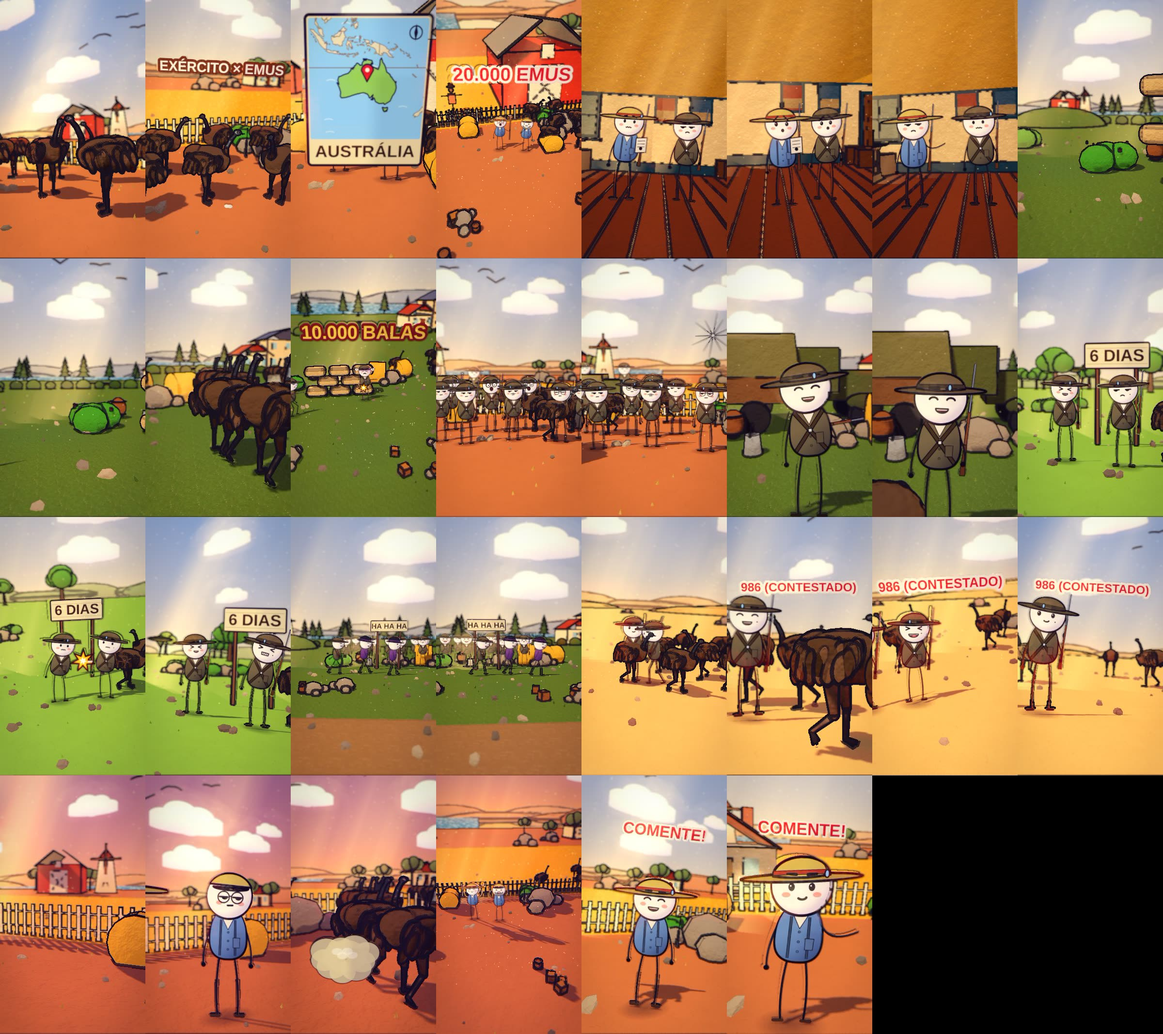
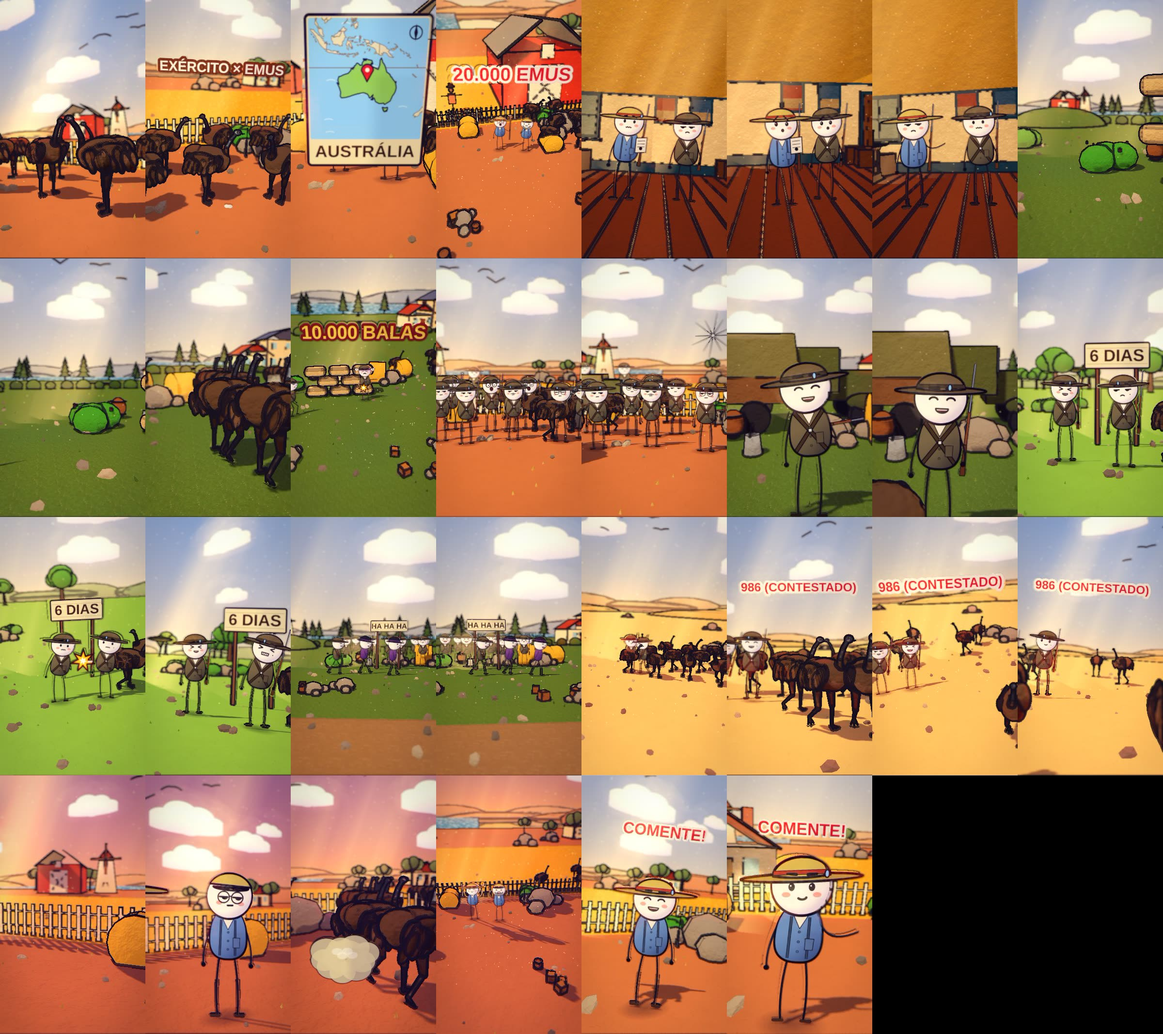
emus1932: storyboard aprovado; pendencias de ferramenta
Claude-Session: https://claude.ai/code/session_01HE8Dy2wiQov2uhW6ZYikBX

Changed region(s): [[0.5, 0.4953, 1.0, 0.743], [0.875, 0.743, 0.9062, 0.7739]]

diff --git a/ferramenta-shorts/web/story.js b/ferramenta-shorts/web/story.js
@@ -41,7 +41,7 @@ const SPEC = {
     { ...S('b5', A[5], A[6] - 1, X_countryside, "desert", { h: 2.4, d0: 10.5, d1: 10.0, el: 5, fov: 46, cx: 0.0, cz: -3.6, punches: [{ f: WS(71), amt: 0.16, dur: 20 }], hero: { hero: 'none', wide: true }, vary: false, nocut: true, trans: 'dissolve', shots: [WS(71), WS(71), WS(73) + 4], actors: [_MA(pp(X_countryside, "AUS", 2, 0.0, -0.4, "grin"), { gests: [[WS(73) - 8, WS(73) + 46, 'lift']] }), { bird: 'emu', at: [X_countryside + 7.4, 1.05], move: [[X_countryside + -14.6, 1.05], A[5], A[6] - 1, 'lin'], state: 'walk', spd: 0.09, s: 1.6, flip: true, seed: 2 }, { bird: 'emu', at: [X_countryside + 9.8, 1.65], move: [[X_countryside + -12.2, 1.65], A[5], A[6] - 1, 'lin'], state: 'walk', spd: 0.09, s: 1.6, flip: true, seed: 7 }, { bird: 'emu', at: [X_countryside + 12.2, 1.2], move: [[X_countryside + -9.8, 1.2], A[5], A[6] - 1, 'lin'], state: 'walk', spd: 0.09, s: 1.6, flip: true, seed: 12 }, { bird: 'emu', at: [X_countryside + 14.6, 1.8], move: [[X_countryside + -7.4, 1.8], A[5], A[6] - 1, 'lin'], state: 'walk', spd: 0.09, s: 1.6, flip: true, seed: 17 }, { bird: 'emu', at: [X_countryside + 8.5, -1.25], move: [[X_countryside + -13.5, -1.25], A[5], A[6] - 1, 'lin'], state: 'walk', spd: 0.09, s: 1.6, flip: true, seed: 22 }, { bird: 'emu', at: [X_countryside + 10.9, -0.65], move: [[X_countryside + -11.1, -0.65], A[5], A[6] - 1, 'lin'], state: 'walk', spd: 0.09, s: 1.6, flip: true, seed: 27 }], props: [{ asset: "vehicles/truck", at: [X_countryside + 0.0, -8.0], s: 1.52, bob: 0.06, ry: 1.5708, fixo: true }], fx: [{ k: 'birds', a: A[5], b: A[6] - 1, at: [X_countryside, DK + 7.5, -30], n: 6, dir: 1, off: 15 }, { k: 'flash', a: WS(71), b: WS(71) + 8, at: [X_countryside + 1.55, DK - 0.55, 1.7], s: 1.6 }, { k: 'puff', a: WS(71) + 3, b: WS(71) + 24, at: [X_countryside + 1.8, DK + 1.9, 1.7], s: 0.5 }, { k: 'flash', a: WS(71), b: WS(71) + 10, at: [X_countryside + 1.55, DK - 0.55, 1.7], s: 1.6 }] }), nocut: true },
     S('b6', A[6], A[7] - 1, X_loc_campo, "desert", { h: 2.5, d0: 11.4, d1: 10.2, az0: 16, az1: 30, punches: [{ f: WS(89), amt: 0.16, dur: 20 }], vary: false, hero: { hero: 'any', frame: 'medium', minH: 0.07, main: 2 }, trans: 'dissolve', shots: [WS(89), WS(89)], actors: [pp(X_loc_campo, "AUS", 0, -1.0, 1.3, "pained", { pose: 'talk', inter: { k: 'lean', a: Math.round(A[6] + (A[7] - 1 - (A[6])) * 0.12), b: Math.round(A[6] + (A[7] - 1 - (A[6])) * 0.82), dir: 1, n: 2, ph: 0 } }), pp(X_loc_campo, "AUS", 1, 1.0, 1.0, "pained", { pose: 'talk', inter: { k: 'recoil', a: Math.round(A[6] + (A[7] - 1 - (A[6])) * 0.2), b: Math.round(A[6] + (A[7] - 1 - (A[6])) * 0.9), dir: -1, n: 2, ph: 3.14 } }), { bird: 'emu', at: [X_loc_campo + 2.6, 0.05], state: "stand", s: 1.6, flip: true, seed: 2 }, { bird: 'emu', at: [X_loc_campo + 5.0, 0.65], state: "peck", s: 1.6, flip: false, seed: 7 }, { bird: 'emu', at: [X_loc_campo + 7.4, 0.2], state: "stand", s: 1.6, flip: true, seed: 12 }, { bird: 'emu', at: [X_loc_campo + 3.7, -1.8], state: "stand", s: 1.6, flip: false, seed: 17 }, { bird: 'emu', at: [X_loc_campo + 6.1, -2.25], state: "peck", s: 1.6, flip: true, seed: 22 }, { bird: 'emu', at: [X_loc_campo + 8.5, -1.65], state: "stand", s: 1.6, flip: false, seed: 27 }], fx: [{ k: 'birds', a: A[6], b: A[7] - 1, at: [X_loc_campo, DK + 4.5, -30], n: 4, dir: -1, off: 8 }, { k: 'text', a: A[6], b: A[7] - 1, at: [X_loc_campo + 0.0, DK, -1.3], text: "6 DIAS", s: 2.625, col: '#3a2416', size: 120, board: true }, { k: 'flash', a: WS(89), b: WS(89) + 8, at: [X_loc_campo + 0.55, DK - 0.55, 1.7], s: 1.6 }, { k: 'puff', a: WS(89) + 3, b: WS(89) + 24, at: [X_loc_campo + 0.8, DK + 1.9, 1.7], s: 0.5 }, { k: 'flash', a: WS(89), b: WS(89) + 10, at: [X_loc_campo + 0.55, DK - 0.55, 1.7], s: 1.6 }] }),
     { ...S('b7', A[7], A[8] - 1, X_countryside, "desert", { h: 2.2, d0: 8.0, d1: 8.0, el: 3, fov: 44, az0: -14, az1: 4, vary: false, hero: { hero: 'any', frame: 'medium', minH: 0.07, main: 3 }, trans: 'dissolve', actors: [_MA({ outfit: "AUS", v: 0, at: [X_countryside + -6.1, 1.3], move: [[X_countryside + 1.9, 1.3], A[7], A[8] - 1, 'lin'], pose: "march", expr: ((f) => f >= WS(104) - 4 ? "laugh" : "pained") }, { gests: [[WS(104) - 8, Math.max(WS(104) + 14, WS(108) - 5), 'up']] }), _MA({ outfit: "PRESS", v: 0, at: [X_countryside + -4.0, 1.0], move: [[X_countryside + 4.0, 1.0], A[7], A[8] - 1, 'lin'], pose: "stroll", expr: ((f) => f >= WS(104) - 4 ? "laugh" : "grin"), over: { hold: "paper" } }, { gests: [[WS(104) - 6, Math.max(WS(104) + 14, WS(108) - 5), 'up']] }), { outfit: "PRESS", v: 1, at: [X_countryside + -1.9, 1.6], move: [[X_countryside + 6.1, 1.6], A[7], A[8] - 1, 'lin'], pose: "stroll", expr: ((f) => f >= WS(104) - 4 ? "laugh" : "smile") }, pp(X_countryside, "AUS", 0, -3.85, -3.36, "neutral", { look: -0.25, seed: 0 }), pp(X_countryside, "AUS", 1, -1.79, -2.88, "neutral", { look: 0.25, seed: 1 }), pp(X_countryside, "AUS", 2, 0.27, -3.24, "neutral", { look: 0.0, seed: 2 }), pp(X_countryside, "AUS", 3, 1.34, -2.76, "neutral", { look: 0.15, seed: 3 }), pp(X_countryside, "AUS", 4, 3.4, -3.12, "neutral", { look: -0.25, seed: 0 }), pp(X_countryside, "AUS", 5, -2.14, -4.74, "neutral", { look: 0.25, seed: 1 }), pp(X_countryside, "AUS", 6, -1.07, -5.1, "neutral", { look: 0.0, seed: 2 }), pp(X_countryside, "AUS", 0, 0.99, -5.46, "neutral", { look: 0.15, seed: 3 }), pp(X_countryside, "AUS", 1, 3.05, -4.98, "neutral", { look: -0.25, seed: 0 }), pp(X_countryside, "AUS", 2, 4.12, -5.34, "neutral", { look: 0.25, seed: 1 }), pp(X_countryside, "AUS", 3, -3.22, -6.96, "neutral", { look: 0.0, seed: 2 }), pp(X_countryside, "AUS", 4, -2.15, -7.32, "neutral", { look: 0.15, seed: 3 })], fx: [{ k: 'text', a: A[7], b: A[8] - 1, at: [X_countryside + 0.0, DK, -1.3], text: "HA HA HA", s: 2.625, col: '#3a2416', size: 120, board: true }, { k: "stars", a: WS(104), b: WS(104) + 28, at: [X_countryside + 4.12, DK + 0.5, -4.34], s: 1.1 }, { k: "stars", a: WS(104) + 3, b: WS(104) + 30, at: [X_countryside + -2.1, DK + 2.6, 1.7], s: 0.6 }] }), cam: [{ f: A[7], at: [X_countryside + -4.0, DK + 2.2, 1.5], d: 8.0, az: 6, el: 3, fov: 44 }, { f: A[8] - 1, at: [X_countryside + 4.0, DK + 2.2, 1.5], d: 8.0, az: -8, el: 4, fov: 44, ease: 'lin' }], nocut: true },
-    S('b8', A[8], A[9] - 1, X_loc_deserto, "desert", { h: 1.8, d0: 9, d1: 8, az0: 24, az1: 10, cx: 2.0, cz: 0.5, vary: false, hero: { hero: 'any', frame: 'medium', minH: 0.07, main: 2 }, trans: 'dissolve', actors: [_MA(_MA(pp(X_loc_deserto, "AUS", 0, -1.0, 1.3, "stern", { pose: 'talk', inter: { k: 'lean', a: Math.round(A[8] + (A[9] - 1 - (A[8])) * 0.12), b: Math.round(A[8] + (A[9] - 1 - (A[8])) * 0.82), dir: 1, n: 2, ph: 0 } }), { gests: [[WS(113) - 8, WS(113) + 46, 'point']] }), { at: [X_loc_deserto + 5.0, 0.5], move: [[X_loc_deserto + -1.0, 1.3], Math.max(A[8], WS(113) - 30), WS(113) + 20, 'lin'], walk: 'stroll' }), pp(X_loc_deserto, "AUS", 1, 1.0, 1.0, "grin", { pose: 'talk', inter: { k: 'nod', a: Math.round(A[8] + (A[9] - 1 - (A[8])) * 0.2), b: Math.round(A[8] + (A[9] - 1 - (A[8])) * 0.9), dir: -1, n: 2, ph: 3.14 } }), { bird: 'emu', at: [X_loc_deserto + 0.9, 1.05], move: [[X_loc_deserto + 11.032, 3.387], A[8], A[9] - 1], state: 'walk', spd: 0.09, s: 1.6, flip: false, seed: 2 }, { bird: 'emu', at: [X_loc_deserto + 3.3, 1.65], move: [[X_loc_deserto + 9.932, 6.437], A[8], A[9] - 1], state: 'walk', spd: 0.09, s: 1.6, flip: false, seed: 7 }, { bird: 'emu', at: [X_loc_deserto + 5.7, 1.2], move: [[X_loc_deserto + 7.056, 7.154], A[8], A[9] - 1], state: 'walk', spd: 0.09, s: 1.6, flip: false, seed: 12 }, { bird: 'emu', at: [X_loc_deserto + 8.1, 1.8], move: [[X_loc_deserto + 3.816, 7.326], A[8], A[9] - 1], state: 'walk', spd: 0.09, s: 1.6, flip: true, seed: 17 }, { bird: 'emu', at: [X_loc_deserto + 2.0, -1.25], move: [[X_loc_deserto + -6.776, 2.368], A[8], A[9] - 1], state: 'walk', spd: 0.09, s: 1.6, flip: true, seed: 22 }, { bird: 'emu', at: [X_loc_deserto + 4.4, -0.65], move: [[X_loc_deserto + -6.516, 0.09], A[8], A[9] - 1], state: 'walk', spd: 0.09, s: 1.6, flip: true, seed: 27 }, { bird: 'emu', at: [X_loc_deserto + 6.8, -1.1], move: [[X_loc_deserto + -3.332, -3.437], A[8], A[9] - 1], state: 'walk', spd: 0.09, s: 1.6, flip: true, seed: 32 }, { bird: 'emu', at: [X_loc_deserto + 9.2, -1.55], move: [[X_loc_deserto + 2.568, -6.337], A[8], A[9] - 1], state: 'walk', spd: 0.09, s: 1.6, flip: true, seed: 37 }, { bird: 'emu', at: [X_loc_deserto + 0.9, -3.55], move: [[X_loc_deserto + -0.456, -9.504], A[8], A[9] - 1], state: 'walk', spd: 0.09, s: 1.6, flip: true, seed: 42 }, { bird: 'emu', at: [X_loc_deserto + 3.3, -4.0], move: [[X_loc_deserto + 7.584, -9.526], A[8], A[9] - 1], state: 'walk', spd: 0.09, s: 1.6, flip: false, seed: 47 }, { bird: 'emu', at: [X_loc_deserto + 5.7, -3.4], move: [[X_loc_deserto + 14.476, -7.018], A[8], A[9] - 1], state: 'walk', spd: 0.09, s: 1.6, flip: false, seed: 52 }, { bird: 'emu', at: [X_loc_deserto + 8.1, -3.85], move: [[X_loc_deserto + 19.016, -4.59], A[8], A[9] - 1], state: 'walk', spd: 0.09, s: 1.6, flip: false, seed: 57 }], fx: [{ k: 'birds', a: A[8], b: A[9] - 1, at: [X_loc_deserto, DK + 7.5, -30], n: 6, dir: 1, off: 8 }, txt(X_loc_deserto, WS(117, -2), A[9] - 1, "986 (CONTESTADO)", '#d8282f', '#fff6e0', 4.5, { s: 1.5, up: 0.46 }), { k: 'burst', a: A[8] + 40, at: [X_loc_deserto + -1.0, DK + 1.8, 3.2], s: 1.2 }, { k: 'burst', a: A[8] + 75, at: [X_loc_deserto + -1.0, DK + 1.8, 3.2], s: 1.2 }] }),
+    S('b8', A[8], A[9] - 1, X_loc_deserto, "desert", { h: 2.4, d0: 15, d1: 13, az0: 24, az1: 10, cx: 3.0, cz: 0.8, vary: false, hero: { hero: 'any', frame: 'medium', minH: 0.07, main: 2 }, trans: 'dissolve', actors: [_MA(_MA(pp(X_loc_deserto, "AUS", 0, -1.0, 1.3, "stern", { pose: 'talk', inter: { k: 'lean', a: Math.round(A[8] + (A[9] - 1 - (A[8])) * 0.12), b: Math.round(A[8] + (A[9] - 1 - (A[8])) * 0.82), dir: 1, n: 2, ph: 0 } }), { gests: [[WS(113) - 8, WS(113) + 46, 'point']] }), { at: [X_loc_deserto + 5.0, 0.5], move: [[X_loc_deserto + -1.0, 1.3], Math.max(A[8], WS(113) - 30), WS(113) + 20, 'lin'], walk: 'stroll' }), pp(X_loc_deserto, "AUS", 1, 1.0, 1.0, "grin", { pose: 'talk', inter: { k: 'nod', a: Math.round(A[8] + (A[9] - 1 - (A[8])) * 0.2), b: Math.round(A[8] + (A[9] - 1 - (A[8])) * 0.9), dir: -1, n: 2, ph: 3.14 } }), { bird: 'emu', at: [X_loc_deserto + 0.9, 1.05], move: [[X_loc_deserto + 11.032, 3.387], A[8], A[9] - 1], state: 'walk', spd: 0.09, s: 1.6, flip: false, seed: 2 }, { bird: 'emu', at: [X_loc_deserto + 3.3, 1.65], move: [[X_loc_deserto + 9.932, 6.437], A[8], A[9] - 1], state: 'walk', spd: 0.09, s: 1.6, flip: false, seed: 7 }, { bird: 'emu', at: [X_loc_deserto + 5.7, 1.2], move: [[X_loc_deserto + 7.056, 7.154], A[8], A[9] - 1], state: 'walk', spd: 0.09, s: 1.6, flip: false, seed: 12 }, { bird: 'emu', at: [X_loc_deserto + 8.1, 1.8], move: [[X_loc_deserto + 3.816, 7.326], A[8], A[9] - 1], state: 'walk', spd: 0.09, s: 1.6, flip: true, seed: 17 }, { bird: 'emu', at: [X_loc_deserto + 2.0, -1.25], move: [[X_loc_deserto + -6.776, 2.368], A[8], A[9] - 1], state: 'walk', spd: 0.09, s: 1.6, flip: true, seed: 22 }, { bird: 'emu', at: [X_loc_deserto + 4.4, -0.65], move: [[X_loc_deserto + -6.516, 0.09], A[8], A[9] - 1], state: 'walk', spd: 0.09, s: 1.6, flip: true, seed: 27 }, { bird: 'emu', at: [X_loc_deserto + 6.8, -1.1], move: [[X_loc_deserto + -3.332, -3.437], A[8], A[9] - 1], state: 'walk', spd: 0.09, s: 1.6, flip: true, seed: 32 }, { bird: 'emu', at: [X_loc_deserto + 9.2, -1.55], move: [[X_loc_deserto + 2.568, -6.337], A[8], A[9] - 1], state: 'walk', spd: 0.09, s: 1.6, flip: true, seed: 37 }, { bird: 'emu', at: [X_loc_deserto + 0.9, -3.55], move: [[X_loc_deserto + -0.456, -9.504], A[8], A[9] - 1], state: 'walk', spd: 0.09, s: 1.6, flip: true, seed: 42 }, { bird: 'emu', at: [X_loc_deserto + 3.3, -4.0], move: [[X_loc_deserto + 7.584, -9.526], A[8], A[9] - 1], state: 'walk', spd: 0.09, s: 1.6, flip: false, seed: 47 }, { bird: 'emu', at: [X_loc_deserto + 5.7, -3.4], move: [[X_loc_deserto + 14.476, -7.018], A[8], A[9] - 1], state: 'walk', spd: 0.09, s: 1.6, flip: false, seed: 52 }, { bird: 'emu', at: [X_loc_deserto + 8.1, -3.85], move: [[X_loc_deserto + 19.016, -4.59], A[8], A[9] - 1], state: 'walk', spd: 0.09, s: 1.6, flip: false, seed: 57 }], fx: [{ k: 'birds', a: A[8], b: A[9] - 1, at: [X_loc_deserto, DK + 7.5, -30], n: 6, dir: 1, off: 8 }, txt(X_loc_deserto, WS(117, -2), A[9] - 1, "986 (CONTESTADO)", '#d8282f', '#fff6e0', 4.5, { s: 1.5, up: 0.46 }), { k: 'burst', a: A[8] + 40, at: [X_loc_deserto + -1.0, DK + 1.8, 3.2], s: 1.2 }, { k: 'burst', a: A[8] + 75, at: [X_loc_deserto + -1.0, DK + 1.8, 3.2], s: 1.2 }] }),
     { ...{ ...S('b9', A[9], Math.round(A[9] + (A[10] - 1 + 1 - (A[9])) * 0.2) - 1, X, "golden", { h: 2.6, d0: 25.0, d1: 19.0, el: 11, cx: 0.0, cz: -1.5, hero: { hero: 'none', wide: true }, vary: false, nocut: true, trans: 'dissolve', actors: [_MA(pp(X, "FARM", 0, -1.0, -0.4, "smile", { over: { hold: "coin" } }), { gests: [[WS(138) - 8, WS(138) + 46, 'reach']] }), pp(X, "FARM", 1, 1.0, 0.2, "grin"), { bird: 'emu', at: [X + 1.5, -1.5], move: [[X + 6.5, -6.5], A[9], A[10] - 1], state: 'walk', spd: 0.09, s: 1.6, flip: false, seed: 2 }, { bird: 'emu', at: [X + 3.188, -0.75], move: [[X + 14.488, -7.812], A[9], A[10] - 1], state: 'walk', spd: 0.09, s: 1.6, flip: false, seed: 7 }, { bird: 'emu', at: [X + 4.875, 0.0], move: [[X + 12.575, -9.125], A[9], A[10] - 1], state: 'walk', spd: 0.09, s: 1.6, flip: false, seed: 12 }, { bird: 'emu', at: [X + 6.562, 0.75], move: [[X + 20.562, -10.438], A[9], A[10] - 1], state: 'walk', spd: 0.09, s: 1.6, flip: false, seed: 17 }, { bird: 'emu', at: [X + 8.25, 1.5], move: [[X + 18.65, -11.75], A[9], A[10] - 1], state: 'walk', spd: 0.09, s: 1.6, flip: false, seed: 22 }, { bird: 'emu', at: [X + 9.938, 2.25], move: [[X + 16.738, -13.062], A[9], A[10] - 1], state: 'walk', spd: 0.09, s: 1.6, flip: false, seed: 27 }, { bird: 'emu', at: [X + 2.062, 3.0], move: [[X + 15.162, -2.688], A[9], A[10] - 1], state: 'walk', spd: 0.09, s: 1.6, flip: false, seed: 32 }, { bird: 'emu', at: [X + 3.75, 3.75], move: [[X + 13.25, -4.0], A[9], A[10] - 1], state: 'walk', spd: 0.09, s: 1.6, flip: false, seed: 37 }, { bird: 'emu', at: [X + 5.438, 4.5], move: [[X + 11.338, -5.312], A[9], A[10] - 1], state: 'walk', spd: 0.09, s: 1.6, flip: false, seed: 42 }, { bird: 'emu', at: [X + 7.125, 5.25], move: [[X + 19.325, -6.625], A[9], A[10] - 1], state: 'walk', spd: 0.09, s: 1.6, flip: false, seed: 47 }, { bird: 'emu', at: [X + 8.812, 6.0], move: [[X + 17.413, -7.938], A[9], A[10] - 1], state: 'walk', spd: 0.09, s: 1.6, flip: false, seed: 52 }, { bird: 'emu', at: [X + 10.5, 6.75], move: [[X + 15.5, -9.25], A[9], A[10] - 1], state: 'walk', spd: 0.09, s: 1.6, flip: false, seed: 57 }, { bird: 'emu', at: [X + 2.625, 7.5], move: [[X + 13.925, 1.125], A[9], A[10] - 1], state: 'walk', spd: 0.09, s: 1.6, flip: false, seed: 62 }, { bird: 'emu', at: [X + 4.312, -1.5], move: [[X + 12.012, -9.938], A[9], A[10] - 1], state: 'walk', spd: 0.09, s: 1.6, flip: false, seed: 67 }, { bird: 'emu', at: [X + 6.0, -0.75], move: [[X + 20.0, -11.25], A[9], A[10] - 1], state: 'walk', spd: 0.09, s: 1.6, flip: false, seed: 72 }, { bird: 'emu', at: [X + 7.688, 0.0], move: [[X + 18.087, -12.562], A[9], A[10] - 1], state: 'walk', spd: 0.09, s: 1.6, flip: false, seed: 77 }, { bird: 'emu', at: [X + 9.375, 0.75], move: [[X + 16.175, -13.875], A[9], A[10] - 1], state: 'walk', spd: 0.09, s: 1.6, flip: false, seed: 82 }, { bird: 'emu', at: [X + 1.5, 1.5], move: [[X + 14.6, -3.5], A[9], A[10] - 1], state: 'walk', spd: 0.09, s: 1.6, flip: false, seed: 87 }, { bird: 'emu', at: [X + 3.188, 2.25], move: [[X + 12.688, -4.812], A[9], A[10] - 1], state: 'walk', spd: 0.09, s: 1.6, flip: false, seed: 92 }, { bird: 'emu', at: [X + 4.875, 3.0], move: [[X + 10.775, -6.125], A[9], A[10] - 1], state: 'walk', spd: 0.09, s: 1.6, flip: false, seed: 97 }, { bird: 'emu', at: [X + 6.562, 3.75], move: [[X + 18.762, -7.438], A[9], A[10] - 1], state: 'walk', spd: 0.09, s: 1.6, flip: false, seed: 102 }, { bird: 'emu', at: [X + 8.25, 4.5], move: [[X + 16.85, -8.75], A[9], A[10] - 1], state: 'walk', spd: 0.09, s: 1.6, flip: false, seed: 107 }, { bird: 'emu', at: [X + 9.938, 5.25], move: [[X + 14.938, -10.062], A[9], A[10] - 1], state: 'walk', spd: 0.09, s: 1.6, flip: false, seed: 112 }, { bird: 'emu', at: [X + 2.062, 6.0], move: [[X + 13.363, 0.312], A[9], A[10] - 1], state: 'walk', spd: 0.09, s: 1.6, flip: false, seed: 117 }, { bird: 'emu', at: [X + 3.75, 6.75], move: [[X + 11.45, -1.0], A[9], A[10] - 1], state: 'walk', spd: 0.09, s: 1.6, flip: false, seed: 122 }, { bird: 'emu', at: [X + 5.438, 7.5], move: [[X + 19.438, -2.312], A[9], A[10] - 1], state: 'walk', spd: 0.09, s: 1.6, flip: false, seed: 127 }, pp(X, "FARM", 0, -14.55, 0.84, "neutral", { look: -0.25, seed: 0 }), pp(X, "FARM", 1, -12.29, 1.32, "neutral", { look: 0.25, seed: 1 }), pp(X, "FARM", 2, -10.03, 0.96, "neutral", { look: 0.0, seed: 2 }), pp(X, "FARM", 3, -8.76, 1.44, "neutral", { look: 0.15, seed: 3 }), pp(X, "FARM", 4, -6.5, 1.08, "neutral", { look: -0.25, seed: 0 })], props: [{ asset: 'kit/coin', a: WS(138) - 2, b: WS(138) + 50, at: [X + 0.25, 1.9], y: (f) => DK + 1.5 + 0.25 * Math.sin(f * 0.2), spinY: 2, s: 0.35, drop: false }], fx: [{ k: 'dust', a: A[9] + 14, b: A[9] + 44, at: [X + 3.5, DK + 0.4, -3.5], s: 0.85 }, { k: 'dust', a: A[9] + 41, b: A[9] + 71, at: [X + 12.163, DK + 0.4, -3.725], s: 0.85 }, { k: 'dust', a: A[9] + 68, b: A[9] + 98, at: [X + 7.303, DK + 0.4, 0.725], s: 0.85 }, { k: 'dust', a: A[9] + 95, b: A[9] + 125, at: [X + 12.005, DK + 0.4, 0.5], s: 0.85 }, { k: 'dust', a: A[9] + 122, b: A[9] + 152, at: [X + 7.145, DK + 0.4, 4.95], s: 0.85 }, { k: 'dust', a: A[9] + 149, b: A[9] + 179, at: [X + 11.848, DK + 0.4, -5.025], s: 0.85 }, { k: 'dust', a: A[9] + 176, b: A[9] + 206, at: [X + 6.988, DK + 0.4, -0.575], s: 0.85 }, { k: 'dust', a: A[9] + 203, b: A[9] + 233, at: [X + 11.69, DK + 0.4, -0.8], s: 0.85 }, { k: 'dust', a: A[9] + 230, b: A[9] + 260, at: [X + 6.83, DK + 0.4, 3.65], s: 0.85 }, { k: 'birds', a: A[9], b: A[10] - 1, at: [X, DK + 4.5, -30], n: 4, dir: 1, off: 15 }, txt(X, WS(168, -2), A[10] - 1, "EXÉRCITO 0 - 1 EMUS", '#fff6e0', '#27408b', 4.8, { s: 1.5, up: 0.42 }), { k: "ring", a: A[9] + 12, b: A[9] + 38, at: [X, DK + 0.5, 1.2], s: 1.1 }, { k: "dust", a: A[9] + 40, b: A[9] + 66, at: [X + 0.9, DK + 0.12, 1.0], s: 0.75 }, { k: "stars", a: WS(138), b: WS(138) + 28, at: [X + -14.55, DK + 0.5, 1.84], s: 1.9 }] }), nocut: true }, cam: [{ f: A[9], at: [X + -5.0, DK + 1.9, -2.5], d: 11, az: 24, el: 5, fov: 44 }, { f: Math.round(A[9] + (A[10] - 1 + 1 - (A[9])) * 0.2) - 1, at: [X + -5.5, DK + 1.9, -2.5], d: 9.2, az: 16, el: 5, fov: 44 }], nocut: true, vary: false }, { ...{ ...S('b9_1', Math.round(A[9] + (A[10] - 1 + 1 - (A[9])) * 0.2), Math.round(A[9] + (A[10] - 1 + 1 - (A[9])) * 0.4) - 1, X, "golden", { h: 2.6, d0: 25.0, d1: 19.0, el: 11, cx: 0.0, cz: -1.5, hero: { hero: 'none', wide: true }, vary: false, nocut: true, trans: 'cut', actors: [_MA(pp(X, "FARM", 0, -1.0, -0.4, "smile", { over: { hold: "coin" } }), { gests: [[WS(138) - 8, WS(138) + 46, 'reach']] }), pp(X, "FARM", 1, 1.0, 0.2, "grin"), { bird: 'emu', at: [X + 1.5, -1.5], move: [[X + 6.5, -6.5], A[9], A[10] - 1], state: 'walk', spd: 0.09, s: 1.6, flip: false, seed: 2 }, { bird: 'emu', at: [X + 3.188, -0.75], move: [[X + 14.488, -7.812], A[9], A[10] - 1], state: 'walk', spd: 0.09, s: 1.6, flip: false, seed: 7 }, { bird: 'emu', at: [X + 4.875, 0.0], move: [[X + 12.575, -9.125], A[9], A[10] - 1], state: 'walk', spd: 0.09, s: 1.6, flip: false, seed: 12 }, { bird: 'emu', at: [X + 6.562, 0.75], move: [[X + 20.562, -10.438], A[9], A[10] - 1], state: 'walk', spd: 0.09, s: 1.6, flip: false, seed: 17 }, { bird: 'emu', at: [X + 8.25, 1.5], move: [[X + 18.65, -11.75], A[9], A[10] - 1], state: 'walk', spd: 0.09, s: 1.6, flip: false, seed: 22 }, { bird: 'emu', at: [X + 9.938, 2.25], move: [[X + 16.738, -13.062], A[9], A[10] - 1], state: 'walk', spd: 0.09, s: 1.6, flip: false, seed: 27 }, { bird: 'emu', at: [X + 2.062, 3.0], move: [[X + 15.162, -2.688], A[9], A[10] - 1], state: 'walk', spd: 0.09, s: 1.6, flip: false, seed: 32 }, { bird: 'emu', at: [X + 3.75, 3.75], move: [[X + 13.25, -4.0], A[9], A[10] - 1], state: 'walk', spd: 0.09, s: 1.6, flip: false, seed: 37 }, { bird: 'emu', at: [X + 5.438, 4.5], move: [[X + 11.338, -5.312], A[9], A[10] - 1], state: 'walk', spd: 0.09, s: 1.6, flip: false, seed: 42 }, { bird: 'emu', at: [X + 7.125, 5.25], move: [[X + 19.325, -6.625], A[9], A[10] - 1], state: 'walk', spd: 0.09, s: 1.6, flip: false, seed: 47 }, { bird: 'emu', at: [X + 8.812, 6.0], move: [[X + 17.413, -7.938], A[9], A[10] - 1], state: 'walk', spd: 0.09, s: 1.6, flip: false, seed: 52 }, { bird: 'emu', at: [X + 10.5, 6.75], move: [[X + 15.5, -9.25], A[9], A[10] - 1], state: 'walk', spd: 0.09, s: 1.6, flip: false, seed: 57 }, { bird: 'emu', at: [X + 2.625, 7.5], move: [[X + 13.925, 1.125], A[9], A[10] - 1], state: 'walk', spd: 0.09, s: 1.6, flip: false, seed: 62 }, { bird: 'emu', at: [X + 4.312, -1.5], move: [[X + 12.012, -9.938], A[9], A[10] - 1], state: 'walk', spd: 0.09, s: 1.6, flip: false, seed: 67 }, { bird: 'emu', at: [X + 6.0, -0.75], move: [[X + 20.0, -11.25], A[9], A[10] - 1], state: 'walk', spd: 0.09, s: 1.6, flip: false, seed: 72 }, { bird: 'emu', at: [X + 7.688, 0.0], move: [[X + 18.087, -12.562], A[9], A[10] - 1], state: 'walk', spd: 0.09, s: 1.6, flip: false, seed: 77 }, { bird: 'emu', at: [X + 9.375, 0.75], move: [[X + 16.175, -13.875], A[9], A[10] - 1], state: 'walk', spd: 0.09, s: 1.6, flip: false, seed: 82 }, { bird: 'emu', at: [X + 1.5, 1.5], move: [[X + 14.6, -3.5], A[9], A[10] - 1], state: 'walk', spd: 0.09, s: 1.6, flip: false, seed: 87 }, { bird: 'emu', at: [X + 3.188, 2.25], move: [[X + 12.688, -4.812], A[9], A[10] - 1], state: 'walk', spd: 0.09, s: 1.6, flip: false, seed: 92 }, { bird: 'emu', at: [X + 4.875, 3.0], move: [[X + 10.775, -6.125], A[9], A[10] - 1], state: 'walk', spd: 0.09, s: 1.6, flip: false, seed: 97 }, { bird: 'emu', at: [X + 6.562, 3.75], move: [[X + 18.762, -7.438], A[9], A[10] - 1], state: 'walk', spd: 0.09, s: 1.6, flip: false, seed: 102 }, { bird: 'emu', at: [X + 8.25, 4.5], move: [[X + 16.85, -8.75], A[9], A[10] - 1], state: 'walk', spd: 0.09, s: 1.6, flip: false, seed: 107 }, { bird: 'emu', at: [X + 9.938, 5.25], move: [[X + 14.938, -10.062], A[9], A[10] - 1], state: 'walk', spd: 0.09, s: 1.6, flip: false, seed: 112 }, { bird: 'emu', at: [X + 2.062, 6.0], move: [[X + 13.363, 0.312], A[9], A[10] - 1], state: 'walk', spd: 0.09, s: 1.6, flip: false, seed: 117 }, { bird: 'emu', at: [X + 3.75, 6.75], move: [[X + 11.45, -1.0], A[9], A[10] - 1], state: 'walk', spd: 0.09, s: 1.6, flip: false, seed: 122 }, { bird: 'emu', at: [X + 5.438, 7.5], move: [[X + 19.438, -2.312], A[9], A[10] - 1], state: 'walk', spd: 0.09, s: 1.6, flip: false, seed: 127 }, pp(X, "FARM", 0, -14.55, 0.84, "neutral", { look: -0.25, seed: 0 }), pp(X, "FARM", 1, -12.29, 1.32, "neutral", { look: 0.25, seed: 1 }), pp(X, "FARM", 2, -10.03, 0.96, "neutral", { look: 0.0, seed: 2 }), pp(X, "FARM", 3, -8.76, 1.44, "neutral", { look: 0.15, seed: 3 }), pp(X, "FARM", 4, -6.5, 1.08, "neutral", { look: -0.25, seed: 0 })], props: [{ asset: 'kit/coin', a: WS(138) - 2, b: WS(138) + 50, at: [X + 0.25, 1.9], y: (f) => DK + 1.5 + 0.25 * Math.sin(f * 0.2), spinY: 2, s: 0.35, drop: false }], fx: [{ k: 'dust', a: A[9] + 14, b: A[9] + 44, at: [X + 3.5, DK + 0.4, -3.5], s: 0.85 }, { k: 'dust', a: A[9] + 41, b: A[9] + 71, at: [X + 12.163, DK + 0.4, -3.725], s: 0.85 }, { k: 'dust', a: A[9] + 68, b: A[9] + 98, at: [X + 7.303, DK + 0.4, 0.725], s: 0.85 }, { k: 'dust', a: A[9] + 95, b: A[9] + 125, at: [X + 12.005, DK + 0.4, 0.5], s: 0.85 }, { k: 'dust', a: A[9] + 122, b: A[9] + 152, at: [X + 7.145, DK + 0.4, 4.95], s: 0.85 }, { k: 'dust', a: A[9] + 149, b: A[9] + 179, at: [X + 11.848, DK + 0.4, -5.025], s: 0.85 }, { k: 'dust', a: A[9] + 176, b: A[9] + 206, at: [X + 6.988, DK + 0.4, -0.575], s: 0.85 }, { k: 'dust', a: A[9] + 203, b: A[9] + 233, at: [X + 11.69, DK + 0.4, -0.8], s: 0.85 }, { k: 'dust', a: A[9] + 230, b: A[9] + 260, at: [X + 6.83, DK + 0.4, 3.65], s: 0.85 }, { k: 'birds', a: A[9], b: A[10] - 1, at: [X, DK + 4.5, -30], n: 4, dir: 1, off: 15 }, txt(X, WS(168, -2), A[10] - 1, "EXÉRCITO 0 - 1 EMUS", '#fff6e0', '#27408b', 4.8, { s: 1.5, up: 0.42 }), { k: "ring", a: A[9] + 12, b: A[9] + 38, at: [X, DK + 0.5, 1.2], s: 1.1 }, { k: "dust", a: A[9] + 40, b: A[9] + 66, at: [X + 0.9, DK + 0.12, 1.0], s: 0.75 }, { k: "stars", a: WS(138), b: WS(138) + 28, at: [X + -14.55, DK + 0.5, 1.84], s: 1.9 }] }), nocut: true }, cam: [{ f: Math.round(A[9] + (A[10] - 1 + 1 - (A[9])) * 0.2), at: [X + -7.0, DK + 2.3, 0.8], d: 7.2, az: -30, el: 1, fov: 44 }, { f: Math.round(A[9] + (A[10] - 1 + 1 - (A[9])) * 0.4) - 1, at: [X + -6.0, DK + 2.3, 0.8], d: 6.4, az: -20, el: 2, fov: 44 }], nocut: true, vary: false, glide: true }, { ...{ ...S('b9_2', Math.round(A[9] + (A[10] - 1 + 1 - (A[9])) * 0.4), Math.round(A[9] + (A[10] - 1 + 1 - (A[9])) * 0.66) - 1, X, "golden", { h: 2.6, d0: 25.0, d1: 19.0, el: 11, cx: 0.0, cz: -1.5, hero: { hero: 'none', wide: true }, vary: false, nocut: true, trans: 'cut', actors: [_MA(pp(X, "FARM", 0, -1.0, -0.4, "smile", { over: { hold: "coin" } }), { gests: [[WS(138) - 8, WS(138) + 46, 'reach']] }), pp(X, "FARM", 1, 1.0, 0.2, "grin"), { bird: 'emu', at: [X + 1.5, -1.5], move: [[X + 6.5, -6.5], A[9], A[10] - 1], state: 'walk', spd: 0.09, s: 1.6, flip: false, seed: 2 }, { bird: 'emu', at: [X + 3.188, -0.75], move: [[X + 14.488, -7.812], A[9], A[10] - 1], state: 'walk', spd: 0.09, s: 1.6, flip: false, seed: 7 }, { bird: 'emu', at: [X + 4.875, 0.0], move: [[X + 12.575, -9.125], A[9], A[10] - 1], state: 'walk', spd: 0.09, s: 1.6, flip: false, seed: 12 }, { bird: 'emu', at: [X + 6.562, 0.75], move: [[X + 20.562, -10.438], A[9], A[10] - 1], state: 'walk', spd: 0.09, s: 1.6, flip: false, seed: 17 }, { bird: 'emu', at: [X + 8.25, 1.5], move: [[X + 18.65, -11.75], A[9], A[10] - 1], state: 'walk', spd: 0.09, s: 1.6, flip: false, seed: 22 }, { bird: 'emu', at: [X + 9.938, 2.25], move: [[X + 16.738, -13.062], A[9], A[10] - 1], state: 'walk', spd: 0.09, s: 1.6, flip: false, seed: 27 }, { bird: 'emu', at: [X + 2.062, 3.0], move: [[X + 15.162, -2.688], A[9], A[10] - 1], state: 'walk', spd: 0.09, s: 1.6, flip: false, seed: 32 }, { bird: 'emu', at: [X + 3.75, 3.75], move: [[X + 13.25, -4.0], A[9], A[10] - 1], state: 'walk', spd: 0.09, s: 1.6, flip: false, seed: 37 }, { bird: 'emu', at: [X + 5.438, 4.5], move: [[X + 11.338, -5.312], A[9], A[10] - 1], state: 'walk', spd: 0.09, s: 1.6, flip: false, seed: 42 }, { bird: 'emu', at: [X + 7.125, 5.25], move: [[X + 19.325, -6.625], A[9], A[10] - 1], state: 'walk', spd: 0.09, s: 1.6, flip: false, seed: 47 }, { bird: 'emu', at: [X + 8.812, 6.0], move: [[X + 17.413, -7.938], A[9], A[10] - 1], state: 'walk', spd: 0.09, s: 1.6, flip: false, seed: 52 }, { bird: 'emu', at: [X + 10.5, 6.75], move: [[X + 15.5, -9.25], A[9], A[10] - 1], state: 'walk', spd: 0.09, s: 1.6, flip: false, seed: 57 }, { bird: 'emu', at: [X + 2.625, 7.5], move: [[X + 13.925, 1.125], A[9], A[10] - 1], state: 'walk', spd: 0.09, s: 1.6, flip: false, seed: 62 }, { bird: 'emu', at: [X + 4.312, -1.5], move: [[X + 12.012, -9.938], A[9], A[10] - 1], state: 'walk', spd: 0.09, s: 1.6, flip: false, seed: 67 }, { bird: 'emu', at: [X + 6.0, -0.75], move: [[X + 20.0, -11.25], A[9], A[10] - 1], state: 'walk', spd: 0.09, s: 1.6, flip: false, seed: 72 }, { bird: 'emu', at: [X + 7.688, 0.0], move: [[X + 18.087, -12.562], A[9], A[10] - 1], state: 'walk', spd: 0.09, s: 1.6, flip: false, seed: 77 }, { bird: 'emu', at: [X + 9.375, 0.75], move: [[X + 16.175, -13.875], A[9], A[10] - 1], state: 'walk', spd: 0.09, s: 1.6, flip: false, seed: 82 }, { bird: 'emu', at: [X + 1.5, 1.5], move: [[X + 14.6, -3.5], A[9], A[10] - 1], state: 'walk', spd: 0.09, s: 1.6, flip: false, seed: 87 }, { bird: 'emu', at: [X + 3.188, 2.25], move: [[X + 12.688, -4.812], A[9], A[10] - 1], state: 'walk', spd: 0.09, s: 1.6, flip: false, seed: 92 }, { bird: 'emu', at: [X + 4.875, 3.0], move: [[X + 10.775, -6.125], A[9], A[10] - 1], state: 'walk', spd: 0.09, s: 1.6, flip: false, seed: 97 }, { bird: 'emu', at: [X + 6.562, 3.75], move: [[X + 18.762, -7.438], A[9], A[10] - 1], state: 'walk', spd: 0.09, s: 1.6, flip: false, seed: 102 }, { bird: 'emu', at: [X + 8.25, 4.5], move: [[X + 16.85, -8.75], A[9], A[10] - 1], state: 'walk', spd: 0.09, s: 1.6, flip: false, seed: 107 }, { bird: 'emu', at: [X + 9.938, 5.25], move: [[X + 14.938, -10.062], A[9], A[10] - 1], state: 'walk', spd: 0.09, s: 1.6, flip: false, seed: 112 }, { bird: 'emu', at: [X + 2.062, 6.0], move: [[X + 13.363, 0.312], A[9], A[10] - 1], state: 'walk', spd: 0.09, s: 1.6, flip: false, seed: 117 }, { bird: 'emu', at: [X + 3.75, 6.75], move: [[X + 11.45, -1.0], A[9], A[10] - 1], state: 'walk', spd: 0.09, s: 1.6, flip: false, seed: 122 }, { bird: 'emu', at: [X + 5.438, 7.5], move: [[X + 19.438, -2.312], A[9], A[10] - 1], state: 'walk', spd: 0.09, s: 1.6, flip: false, seed: 127 }, pp(X, "FARM", 0, -14.55, 0.84, "neutral", { look: -0.25, seed: 0 }), pp(X, "FARM", 1, -12.29, 1.32, "neutral", { look: 0.25, seed: 1 }), pp(X, "FARM", 2, -10.03, 0.96, "neutral", { look: 0.0, seed: 2 }), pp(X, "FARM", 3, -8.76, 1.44, "neutral", { look: 0.15, seed: 3 }), pp(X, "FARM", 4, -6.5, 1.08, "neutral", { look: -0.25, seed: 0 })], props: [{ asset: 'kit/coin', a: WS(138) - 2, b: WS(138) + 50, at: [X + 0.25, 1.9], y: (f) => DK + 1.5 + 0.25 * Math.sin(f * 0.2), spinY: 2, s: 0.35, drop: false }], fx: [{ k: 'dust', a: A[9] + 14, b: A[9] + 44, at: [X + 3.5, DK + 0.4, -3.5], s: 0.85 }, { k: 'dust', a: A[9] + 41, b: A[9] + 71, at: [X + 12.163, DK + 0.4, -3.725], s: 0.85 }, { k: 'dust', a: A[9] + 68, b: A[9] + 98, at: [X + 7.303, DK + 0.4, 0.725], s: 0.85 }, { k: 'dust', a: A[9] + 95, b: A[9] + 125, at: [X + 12.005, DK + 0.4, 0.5], s: 0.85 }, { k: 'dust', a: A[9] + 122, b: A[9] + 152, at: [X + 7.145, DK + 0.4, 4.95], s: 0.85 }, { k: 'dust', a: A[9] + 149, b: A[9] + 179, at: [X + 11.848, DK + 0.4, -5.025], s: 0.85 }, { k: 'dust', a: A[9] + 176, b: A[9] + 206, at: [X + 6.988, DK + 0.4, -0.575], s: 0.85 }, { k: 'dust', a: A[9] + 203, b: A[9] + 233, at: [X + 11.69, DK + 0.4, -0.8], s: 0.85 }, { k: 'dust', a: A[9] + 230, b: A[9] + 260, at: [X + 6.83, DK + 0.4, 3.65], s: 0.85 }, { k: 'birds', a: A[9], b: A[10] - 1, at: [X, DK + 4.5, -30], n: 4, dir: 1, off: 15 }, txt(X, WS(168, -2), A[10] - 1, "EXÉRCITO 0 - 1 EMUS", '#fff6e0', '#27408b', 4.8, { s: 1.5, up: 0.42 }), { k: "ring", a: A[9] + 12, b: A[9] + 38, at: [X, DK + 0.5, 1.2], s: 1.1 }, { k: "dust", a: A[9] + 40, b: A[9] + 66, at: [X + 0.9, DK + 0.12, 1.0], s: 0.75 }, { k: "stars", a: WS(138), b: WS(138) + 28, at: [X + -14.55, DK + 0.5, 1.84], s: 1.9 }] }), nocut: true }, cam: [{ f: Math.round(A[9] + (A[10] - 1 + 1 - (A[9])) * 0.4), at: [X + 5.0, DK + 1.5, 2.5], d: 12, az: 4, el: 6, fov: 46 }, { f: Math.round(A[9] + (A[10] - 1 + 1 - (A[9])) * 0.66) - 1, at: [X + 12.0, DK + 1.5, -3.5], d: 13, az: -22, el: 8, fov: 46, ease: "lin" }], nocut: true, vary: false }, { ...{ ...S('b9_3', Math.round(A[9] + (A[10] - 1 + 1 - (A[9])) * 0.66), A[10] - 1, X, "golden", { h: 2.6, d0: 25.0, d1: 19.0, el: 11, cx: 0.0, cz: -1.5, hero: { hero: 'none', wide: true }, vary: false, nocut: true, trans: 'cut', actors: [_MA(pp(X, "FARM", 0, -1.0, -0.4, "smile", { over: { hold: "coin" } }), { gests: [[WS(138) - 8, WS(138) + 46, 'reach']] }), pp(X, "FARM", 1, 1.0, 0.2, "grin"), { bird: 'emu', at: [X + 1.5, -1.5], move: [[X + 6.5, -6.5], A[9], A[10] - 1], state: 'walk', spd: 0.09, s: 1.6, flip: false, seed: 2 }, { bird: 'emu', at: [X + 3.188, -0.75], move: [[X + 14.488, -7.812], A[9], A[10] - 1], state: 'walk', spd: 0.09, s: 1.6, flip: false, seed: 7 }, { bird: 'emu', at: [X + 4.875, 0.0], move: [[X + 12.575, -9.125], A[9], A[10] - 1], state: 'walk', spd: 0.09, s: 1.6, flip: false, seed: 12 }, { bird: 'emu', at: [X + 6.562, 0.75], move: [[X + 20.562, -10.438], A[9], A[10] - 1], state: 'walk', spd: 0.09, s: 1.6, flip: false, seed: 17 }, { bird: 'emu', at: [X + 8.25, 1.5], move: [[X + 18.65, -11.75], A[9], A[10] - 1], state: 'walk', spd: 0.09, s: 1.6, flip: false, seed: 22 }, { bird: 'emu', at: [X + 9.938, 2.25], move: [[X + 16.738, -13.062], A[9], A[10] - 1], state: 'walk', spd: 0.09, s: 1.6, flip: false, seed: 27 }, { bird: 'emu', at: [X + 2.062, 3.0], move: [[X + 15.162, -2.688], A[9], A[10] - 1], state: 'walk', spd: 0.09, s: 1.6, flip: false, seed: 32 }, { bird: 'emu', at: [X + 3.75, 3.75], move: [[X + 13.25, -4.0], A[9], A[10] - 1], state: 'walk', spd: 0.09, s: 1.6, flip: false, seed: 37 }, { bird: 'emu', at: [X + 5.438, 4.5], move: [[X + 11.338, -5.312], A[9], A[10] - 1], state: 'walk', spd: 0.09, s: 1.6, flip: false, seed: 42 }, { bird: 'emu', at: [X + 7.125, 5.25], move: [[X + 19.325, -6.625], A[9], A[10] - 1], state: 'walk', spd: 0.09, s: 1.6, flip: false, seed: 47 }, { bird: 'emu', at: [X + 8.812, 6.0], move: [[X + 17.413, -7.938], A[9], A[10] - 1], state: 'walk', spd: 0.09, s: 1.6, flip: false, seed: 52 }, { bird: 'emu', at: [X + 10.5, 6.75], move: [[X + 15.5, -9.25], A[9], A[10] - 1], state: 'walk', spd: 0.09, s: 1.6, flip: false, seed: 57 }, { bird: 'emu', at: [X + 2.625, 7.5], move: [[X + 13.925, 1.125], A[9], A[10] - 1], state: 'walk', spd: 0.09, s: 1.6, flip: false, seed: 62 }, { bird: 'emu', at: [X + 4.312, -1.5], move: [[X + 12.012, -9.938], A[9], A[10] - 1], state: 'walk', spd: 0.09, s: 1.6, flip: false, seed: 67 }, { bird: 'emu', at: [X + 6.0, -0.75], move: [[X + 20.0, -11.25], A[9], A[10] - 1], state: 'walk', spd: 0.09, s: 1.6, flip: false, seed: 72 }, { bird: 'emu', at: [X + 7.688, 0.0], move: [[X + 18.087, -12.562], A[9], A[10] - 1], state: 'walk', spd: 0.09, s: 1.6, flip: false, seed: 77 }, { bird: 'emu', at: [X + 9.375, 0.75], move: [[X + 16.175, -13.875], A[9], A[10] - 1], state: 'walk', spd: 0.09, s: 1.6, flip: false, seed: 82 }, { bird: 'emu', at: [X + 1.5, 1.5], move: [[X + 14.6, -3.5], A[9], A[10] - 1], state: 'walk', spd: 0.09, s: 1.6, flip: false, seed: 87 }, { bird: 'emu', at: [X + 3.188, 2.25], move: [[X + 12.688, -4.812], A[9], A[10] - 1], state: 'walk', spd: 0.09, s: 1.6, flip: false, seed: 92 }, { bird: 'emu', at: [X + 4.875, 3.0], move: [[X + 10.775, -6.125], A[9], A[10] - 1], state: 'walk', spd: 0.09, s: 1.6, flip: false, seed: 97 }, { bird: 'emu', at: [X + 6.562, 3.75], move: [[X + 18.762, -7.438], A[9], A[10] - 1], state: 'walk', spd: 0.09, s: 1.6, flip: false, seed: 102 }, { bird: 'emu', at: [X + 8.25, 4.5], move: [[X + 16.85, -8.75], A[9], A[10] - 1], state: 'walk', spd: 0.09, s: 1.6, flip: false, seed: 107 }, { bird: 'emu', at: [X + 9.938, 5.25], move: [[X + 14.938, -10.062], A[9], A[10] - 1], state: 'walk', spd: 0.09, s: 1.6, flip: false, seed: 112 }, { bird: 'emu', at: [X + 2.062, 6.0], move: [[X + 13.363, 0.312], A[9], A[10] - 1], state: 'walk', spd: 0.09, s: 1.6, flip: false, seed: 117 }, { bird: 'emu', at: [X + 3.75, 6.75], move: [[X + 11.45, -1.0], A[9], A[10] - 1], state: 'walk', spd: 0.09, s: 1.6, flip: false, seed: 122 }, { bird: 'emu', at: [X + 5.438, 7.5], move: [[X + 19.438, -2.312], A[9], A[10] - 1], state: 'walk', spd: 0.09, s: 1.6, flip: false, seed: 127 }, pp(X, "FARM", 0, -14.55, 0.84, "neutral", { look: -0.25, seed: 0 }), pp(X, "FARM", 1, -12.29, 1.32, "neutral", { look: 0.25, seed: 1 }), pp(X, "FARM", 2, -10.03, 0.96, "neutral", { look: 0.0, seed: 2 }), pp(X, "FARM", 3, -8.76, 1.44, "neutral", { look: 0.15, seed: 3 }), pp(X, "FARM", 4, -6.5, 1.08, "neutral", { look: -0.25, seed: 0 })], props: [{ asset: 'kit/coin', a: WS(138) - 2, b: WS(138) + 50, at: [X + 0.25, 1.9], y: (f) => DK + 1.5 + 0.25 * Math.sin(f * 0.2), spinY: 2, s: 0.35, drop: false }], fx: [{ k: 'dust', a: A[9] + 14, b: A[9] + 44, at: [X + 3.5, DK + 0.4, -3.5], s: 0.85 }, { k: 'dust', a: A[9] + 41, b: A[9] + 71, at: [X + 12.163, DK + 0.4, -3.725], s: 0.85 }, { k: 'dust', a: A[9] + 68, b: A[9] + 98, at: [X + 7.303, DK + 0.4, 0.725], s: 0.85 }, { k: 'dust', a: A[9] + 95, b: A[9] + 125, at: [X + 12.005, DK + 0.4, 0.5], s: 0.85 }, { k: 'dust', a: A[9] + 122, b: A[9] + 152, at: [X + 7.145, DK + 0.4, 4.95], s: 0.85 }, { k: 'dust', a: A[9] + 149, b: A[9] + 179, at: [X + 11.848, DK + 0.4, -5.025], s: 0.85 }, { k: 'dust', a: A[9] + 176, b: A[9] + 206, at: [X + 6.988, DK + 0.4, -0.575], s: 0.85 }, { k: 'dust', a: A[9] + 203, b: A[9] + 233, at: [X + 11.69, DK + 0.4, -0.8], s: 0.85 }, { k: 'dust', a: A[9] + 230, b: A[9] + 260, at: [X + 6.83, DK + 0.4, 3.65], s: 0.85 }, { k: 'birds', a: A[9], b: A[10] - 1, at: [X, DK + 4.5, -30], n: 4, dir: 1, off: 15 }, txt(X, WS(168, -2), A[10] - 1, "EXÉRCITO 0 - 1 EMUS", '#fff6e0', '#27408b', 4.8, { s: 1.5, up: 0.42 }), { k: "ring", a: A[9] + 12, b: A[9] + 38, at: [X, DK + 0.5, 1.2], s: 1.1 }, { k: "dust", a: A[9] + 40, b: A[9] + 66, at: [X + 0.9, DK + 0.12, 1.0], s: 0.75 }, { k: "stars", a: WS(138), b: WS(138) + 28, at: [X + -14.55, DK + 0.5, 1.84], s: 1.9 }] }), nocut: true }, cam: [{ f: Math.round(A[9] + (A[10] - 1 + 1 - (A[9])) * 0.66), at: [X + 1.0, DK + 1.4, 1.0], d: 17, az: 6, el: 13, fov: 48 }, { f: A[10] - 1, at: [X + 3.0, DK + 1.0, -2.0], d: 36, az: -18, el: 30, fov: 48 }], nocut: true, vary: false, glide: true },
     S('b10', A[10], A[11] - 1, X, "desert", { h: 2.4, d0: 6.4, d1: 5.6, az0: -32, az1: -18, hero: { hero: 'any', frame: 'medium', minH: 0.07, main: 1 }, trans: 'dissolve', actors: [pp(X, "FARM", 0, 0.0, 1.3, "grin", { pose: 'talk' })], props: [{ asset: "buildings/house_small", at: [X + -4.8, -11.0], s: 1.05, ry: 0.35, drop: false }], fx: [{ k: 'birds', a: A[10], b: A[11] - 1, at: [X, DK + 6.0, -30], n: 5, dir: -1, off: 8 }, txt(X, WS(149, -2), A[11] - 1, "COMENTE!", '#d8282f', '#fff6e0', 4.6, { s: 1.5, up: 0.55 })] })
   ],

diff --git a/ferramenta-shorts/stories/emus1932/revisao_storyboard.md b/ferramenta-shorts/stories/emus1932/revisao_storyboard.md
@@ -1,0 +1,12 @@
+pesquisa: as fotos de 1932 da Guerra dos Emus (Wikimedia Commons) mostram emus bebendo em terra seca, homem de chapeu com emu abatido e campos de trigo do oeste da Australia; comparei com solo de terra vermelha, soldados de farda caqui com chapeu de aba larga, fazendeiros de camisa azul e chapeu de palha, caminhao da epoca e metralhadora em sacos de areia; os prints de cartaz, trajes franceses, tanque, ingresso de futebol e capa de livro foram descartados.
+defeitos procurados: cenario terra vermelha e pasto sem cidade, mas o fundo do cenario outback traz celeiro vermelho e moinho de vento que nao sao do trigal australiano e nao saem pelo roteiro; epoca 1932 com caminhao e metralhadora da epoca sem veiculo moderno; tamanho emus grandes e soldados pequenos ao fundo; cortado os soldados da b8 deixaram de ser cortados; multidao soldados em bloco sem clones e sem ninguem caido porque ninguem morre no combate; legenda textos EXERCITO x EMUS, 6 DIAS e 986 ficam no alto longe da legenda; acao o caminhao com a metralhadora aparece atras do soldado; objeto sacos de areia e metralhadora aparecem na b3.
+b0: CORRIGIDO - a Australia declarou guerra a um bando de passaros e perdeu: antes data 1932 na primeira cena; agora emus em terra vermelha com o texto EXERCITO x EMUS e um celeiro vermelho ao fundo.
+b1: OK - em mil novecentos e trinta e dois vinte mil emus invadiram as plantacoes de trigo no oeste do pais: mapa da AUSTRALIA e os fazendeiros pequenos diante dos emus com o texto 20.000 EMUS.
+b2: OK - fazendeiros veteranos pediram metralhadoras e o ministro da Defesa mandou soldados: fazendeiro com papel e soldado de farda caqui numa sala de madeira.
+b3: CORRIGIDO - o major Meredith levou duas metralhadoras e dez mil balas: antes personagens cortados e sacos de areia minusculos; agora soldado atras dos sacos de areia grandes com o texto 10.000 BALAS.
+b4: CORRIGIDO - os emus se dividiram em grupos pequenos e rapidos e as balas acertavam so poeira: antes soldado caido no chao; agora bloco de soldados em pe diante dos emus espalhados na terra vermelha.
+b5: CORRIGIDO - uma metralhadora foi instalada num caminhao mas ele sacudia tanto que ninguem atirava: antes um cavalo no lugar do caminhao; agora soldado rindo diante do caminhao verde.
+b6: OK - depois de seis dias milhares de balas gastas e poucos emus abatidos: dois soldados cansados diante da placa 6 DIAS.
+b7: OK - o major comparou os passaros a tanques a imprensa riu e o governo retirou as tropas: soldados e jornalistas de terno roxo diante da placa HA HA HA.
+b8: CORRIGIDO - o exercito voltou e o major disse ter abatido novecentos e oitenta e seis numero contestado: antes quadros de deserto vazio e soldado caido; agora dois soldados no deserto com os emus passando e o texto 986 CONTESTADO.
+b9: OK - no fim o governo preferiu recompensas e em seis meses pagou por mais de cinquenta mil emus e exercito zero emus um: fazendeiro sorrindo com emus levantando poeira, depois o texto COMENTE.

diff --git a/ferramenta-shorts/pendencias_motor/A_emus1932.md b/ferramenta-shorts/pendencias_motor/A_emus1932.md
@@ -1,0 +1,5 @@
+# Pendencia de ferramenta - emus1932 (sessao A)
+- O cenario "outback" (e "countryside") desenha moinho de vento holandes e celeiro vermelho ao fundo, mesmo com "fachada": false nas cenas. Em trigal do oeste da Australia em 1932 isso nao confere com a pesquisa. Qualquer roteiro de outback sofre o mesmo; nao da para tirar pelo roteiro.
+- Palavra "montada/montado" na frase ("metralhadora foi montada num caminhao") vira cavalo com soldado em cima; contornei trocando por "instalada".
+- Cenario "palace" renderiza como praia de areia (navio em cima da areia) na chaleira1784; contornei usando "harbor".
+- Soldado com fuzil (HOL/AUS "rifle": true) dispara batalha automatica com cavalos e caidos mesmo com "crowd":{"n":0}; contornei com figurino sem fuzil (MAR).

diff --git a/ferramenta-shorts/stories/emus1932/lista_revisao.md b/ferramenta-shorts/stories/emus1932/lista_revisao.md
@@ -3,9 +3,7 @@
 Regra: olhar o storyboard/frase_a_frase INTEIRO e completar esta lista toda ANTES de devolver. Quem refaz corrige todos os itens de uma vez.
 
 ## Achados automaticos (ferramenta)
-1. b8~1: personagem CORTADO na borda do quadro (boneco grande saindo da tela)
-2. b8~2: personagem CORTADO na borda do quadro (boneco grande saindo da tela)
-3. b8~3: personagem CORTADO na borda do quadro (boneco grande saindo da tela)
+- nenhum
 
 ## Achados do olho (uma linha por frase: OK ou DEFEITO + o que fazer)
 - f0 "A Austrália declarou guerra a um bando de pássaros,": 
